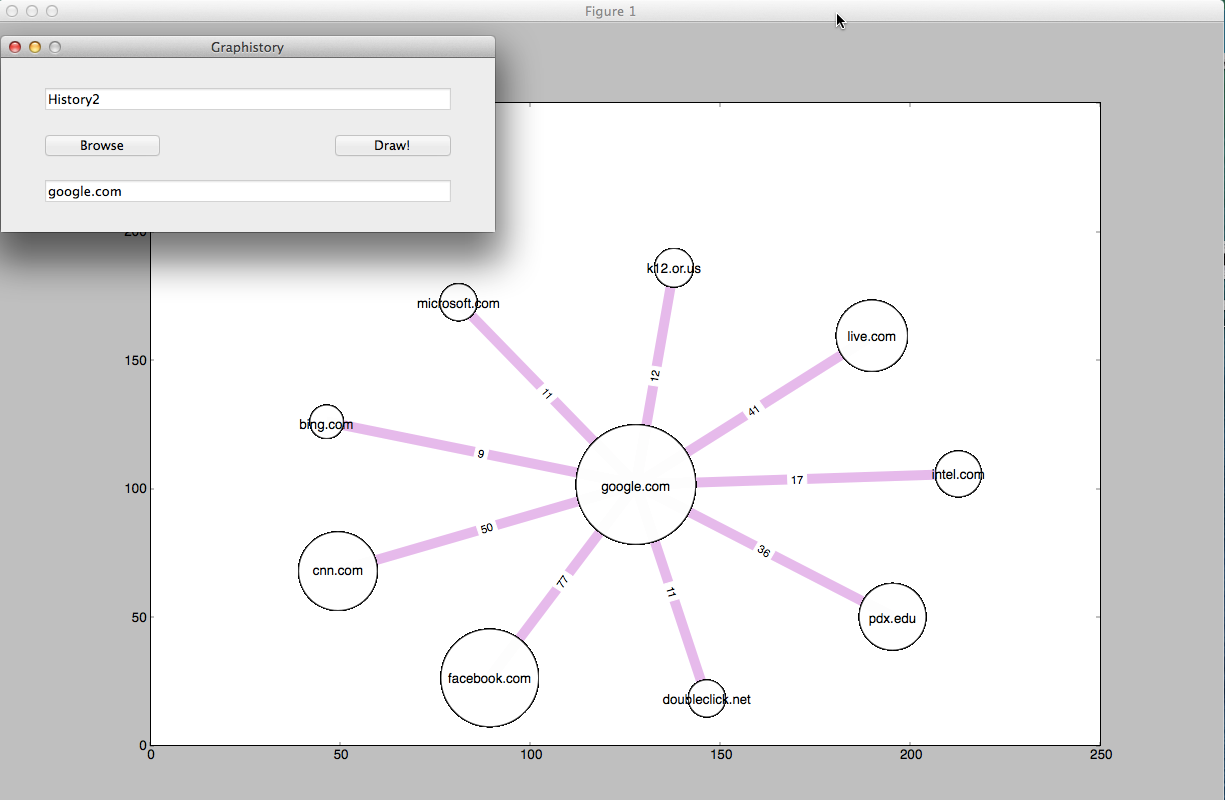
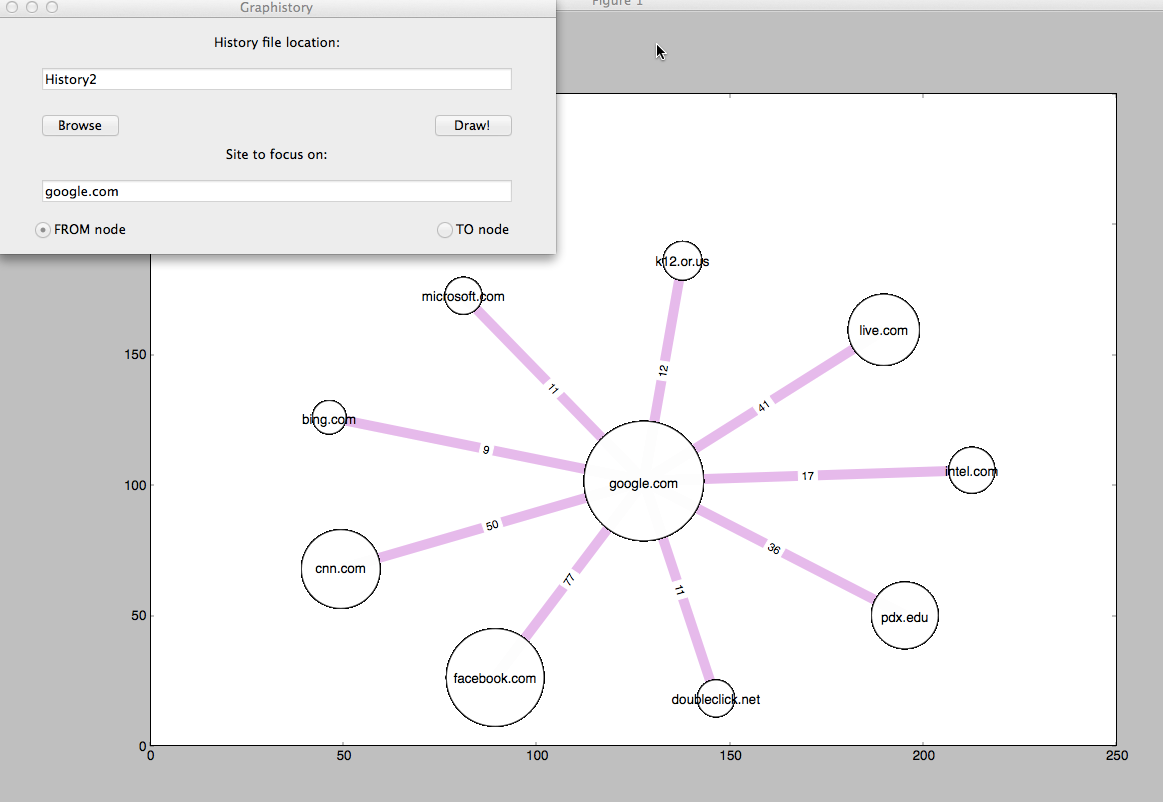
fixing the radio button + update new screenshot and history file

diff --git a/filegui.py b/filegui.py
@@ -47,7 +47,7 @@ def drawgraph(fileloc=''):
         histgraph = histparse(fileloc)              #due to everything moving into Graphistory
         g = Graphistory(fileloc)
         urlcenter = str(url.get())
-        if fromto == 0:
+        if fromto.get() == 0:
             g.draw_from_site(urlcenter)
         else:
             g.draw_to_site(urlcenter)
